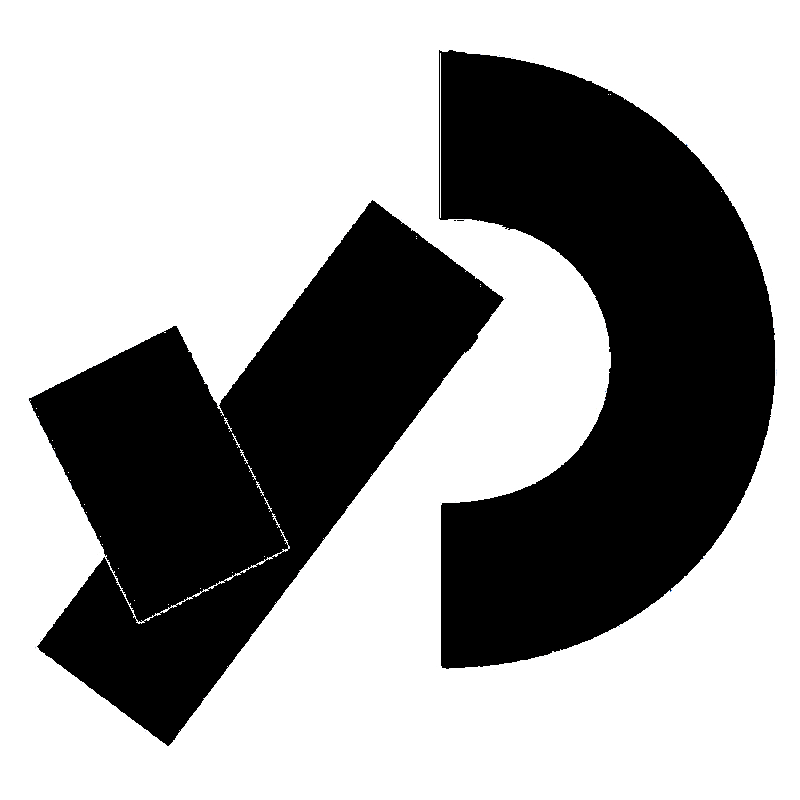
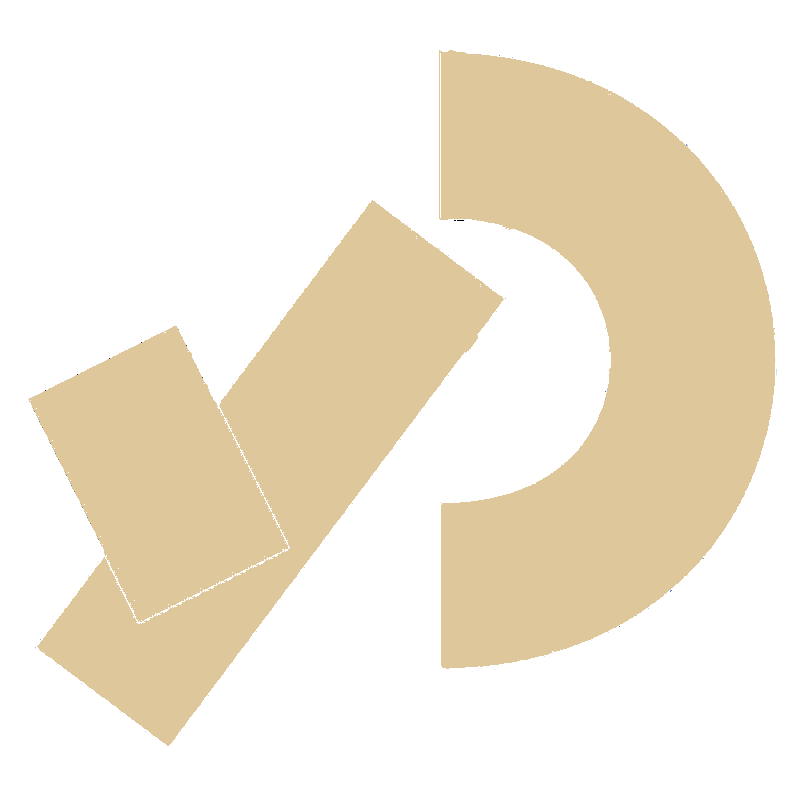
ouais

diff --git a/pong.html b/pong.html
@@ -30,14 +30,14 @@
         <main>
             <div class="Presentation">
                 <div class="Title">
-                <h1>Pong</h1>
-                <img src="Portefolio/img/pong.jpg" alt="">
+                    <h1>Pong</h1>
+                    <img src="Portefolio/img/pong.jpg" alt="">
                 </div>
                 <div id="CahierCharges">
                     <h2>Cahier des charges</h2>
                     <ul>
                         <li>
-                            Créer un jeu de type pong 
+                            Créer un jeu de type pong
                         </li>
                         <li>
                             Possédant au départ une balle et deux raquettes
@@ -46,7 +46,7 @@
                             Ajout d'un menu avec deux modes, un mode une balle ou quatres balles
                         </li>
                         <li>
-                            Ajout d'obstacle si possible
+                            Ajout d'obstacles si possible
                         </li>
                     </ul>
                 </div>
@@ -61,7 +61,7 @@
                             Processing
 
                         </li>
-                    <img src="Portefolio/img/Processing.png" alt="">
+                        <img src="Portefolio/img/Processing.png" alt="">
                     </ul>
                 </div>
                 <div id="Livrable">
@@ -79,14 +79,19 @@
             </div>
             <div class="infoProjet">
                 <h2>Info Projet</h2>
-                <div class="year">
-                    <div class="title">
-                        <h2>Year : </h2>
-                    </div>
-                    <div class="value">
-                        <h2>2021</h2>
-                    </div>
+                <div class="boom">
 
+
+
+                    <div class="year">
+                        <div class="title">
+                            <h2>Year : </h2>
+                        </div>
+                        <div class="value">
+                            <h2>2021</h2>
+                        </div>
+
+                    </div>
                 </div>
 
             </div>

diff --git a/index.html b/index.html
@@ -135,8 +135,10 @@
                         <div class="p">
                             <div class="BD">
                                 <h3>Création et implementation d'une base de donnée en rapport avec le vin</h3>
-                                <div class="interieurBack"> 
-                                <img src="Portefolio/img/vin.png" alt="Logo Vin">
+                                <div class="interieurBack">
+                                    <div class="imageVin">
+                                        <img src="Portefolio/img/vin.png" alt="Logo Vin">
+                                    </div>
                                 </div>
                             </div>
                             <div class="Language">

diff --git a/Portefolio/acceuil.css b/Portefolio/acceuil.css
@@ -226,7 +226,7 @@ div#aPropos {
     flex-wrap: wrap;
     justify-content: space-around;
     align-items: stretch;
-    box-shadow: 10px 5px 5px #DEC79B;
+    
 }
 
 
@@ -323,9 +323,7 @@ div.pong:hover, div.Lowatem:hover, div.Shell:hover, div.CreationE:hover, div.Web
     background: url(img/site.jpg);
 }
 
-.BD {
-    background: url(img/vin.png);
-}
+
 
 
 
@@ -432,4 +430,16 @@ div.CSS, div.html, div.Java, div.Bash, div.Processing {
     align-content: center;
     flex-direction: column;
     align-items: center;
+}
+
+
+.BD h3 {
+      text-align: center;
+      
+    z-index: 200;
+}
+div.imageVin {
+        text-align: center;
+
+    position: absolute;
 }

diff --git a/Portefolio/pong.css b/Portefolio/pong.css
@@ -80,10 +80,10 @@ main {
 
 
 div.year {
-    border: #DEC79B solid 2px;
+       border: #DEC79B solid 2px;
+    min-width: 90vw;
     display: flex;
-
-
+    justify-content: space-between;
 }
 
 div.title {
@@ -93,8 +93,8 @@ div.title {
 
 
 div.value {
-    position: relative;
     left: 90vh;
+    margin-right: 5vh;
 }
 
 .Presentation {
@@ -111,6 +111,10 @@ div.value {
     display: flex;
     padding: 5vh;
     margin : 5vh
+}
+
+div.boom {
+    display: flex;
 }
 
 
